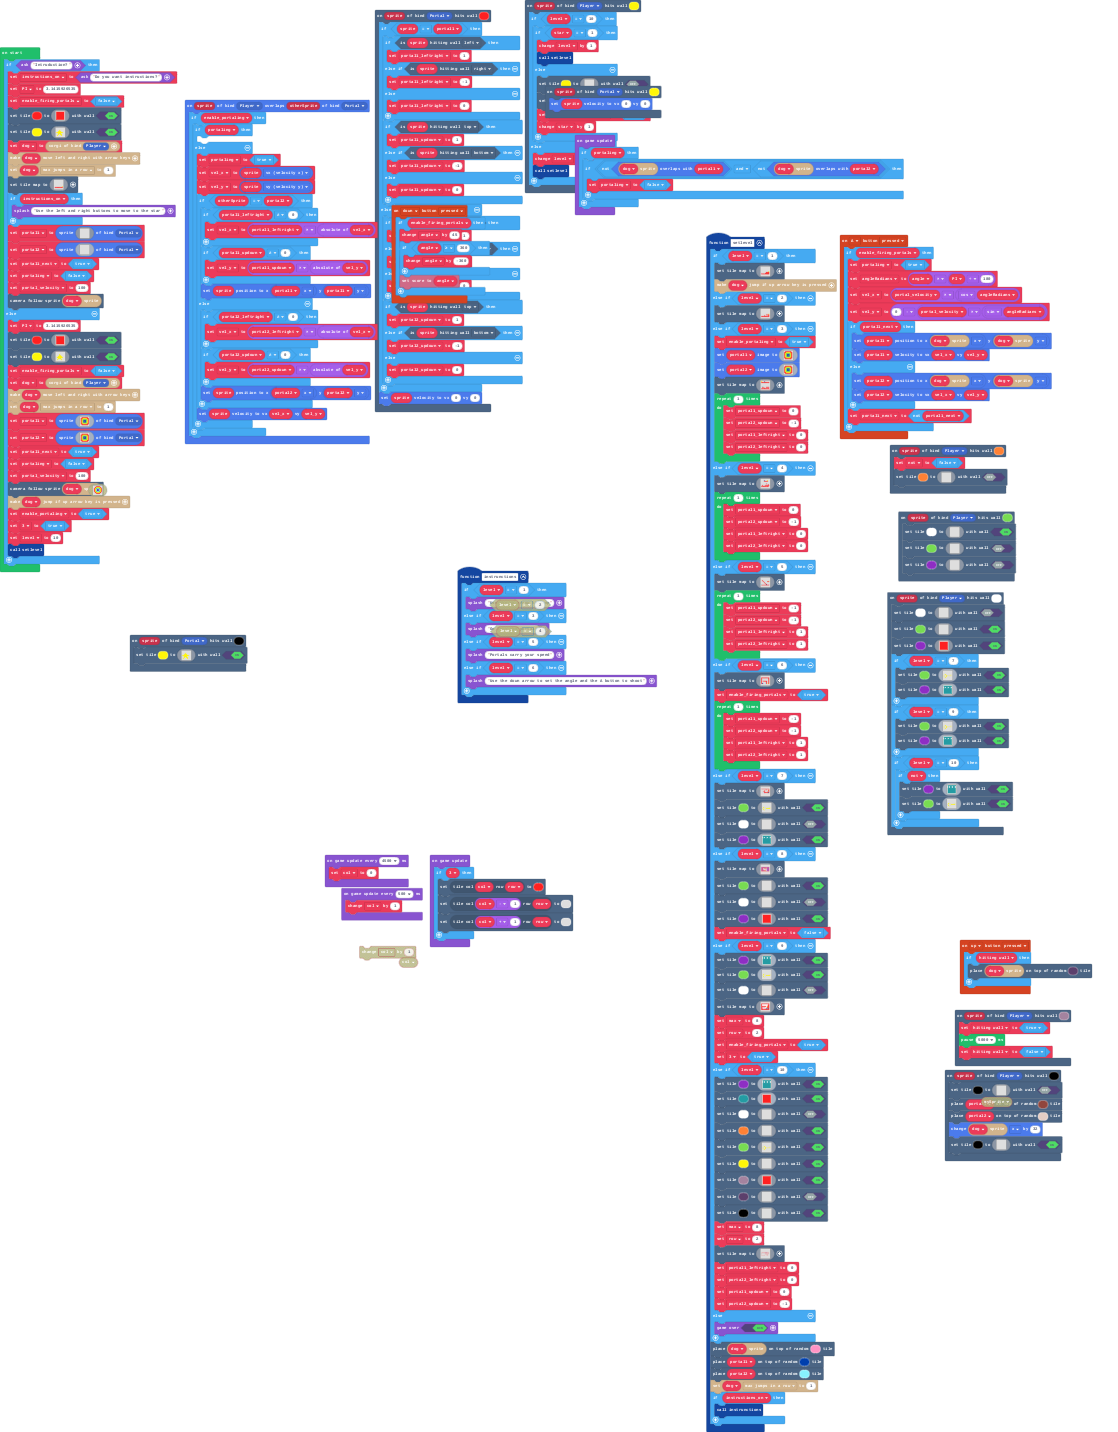
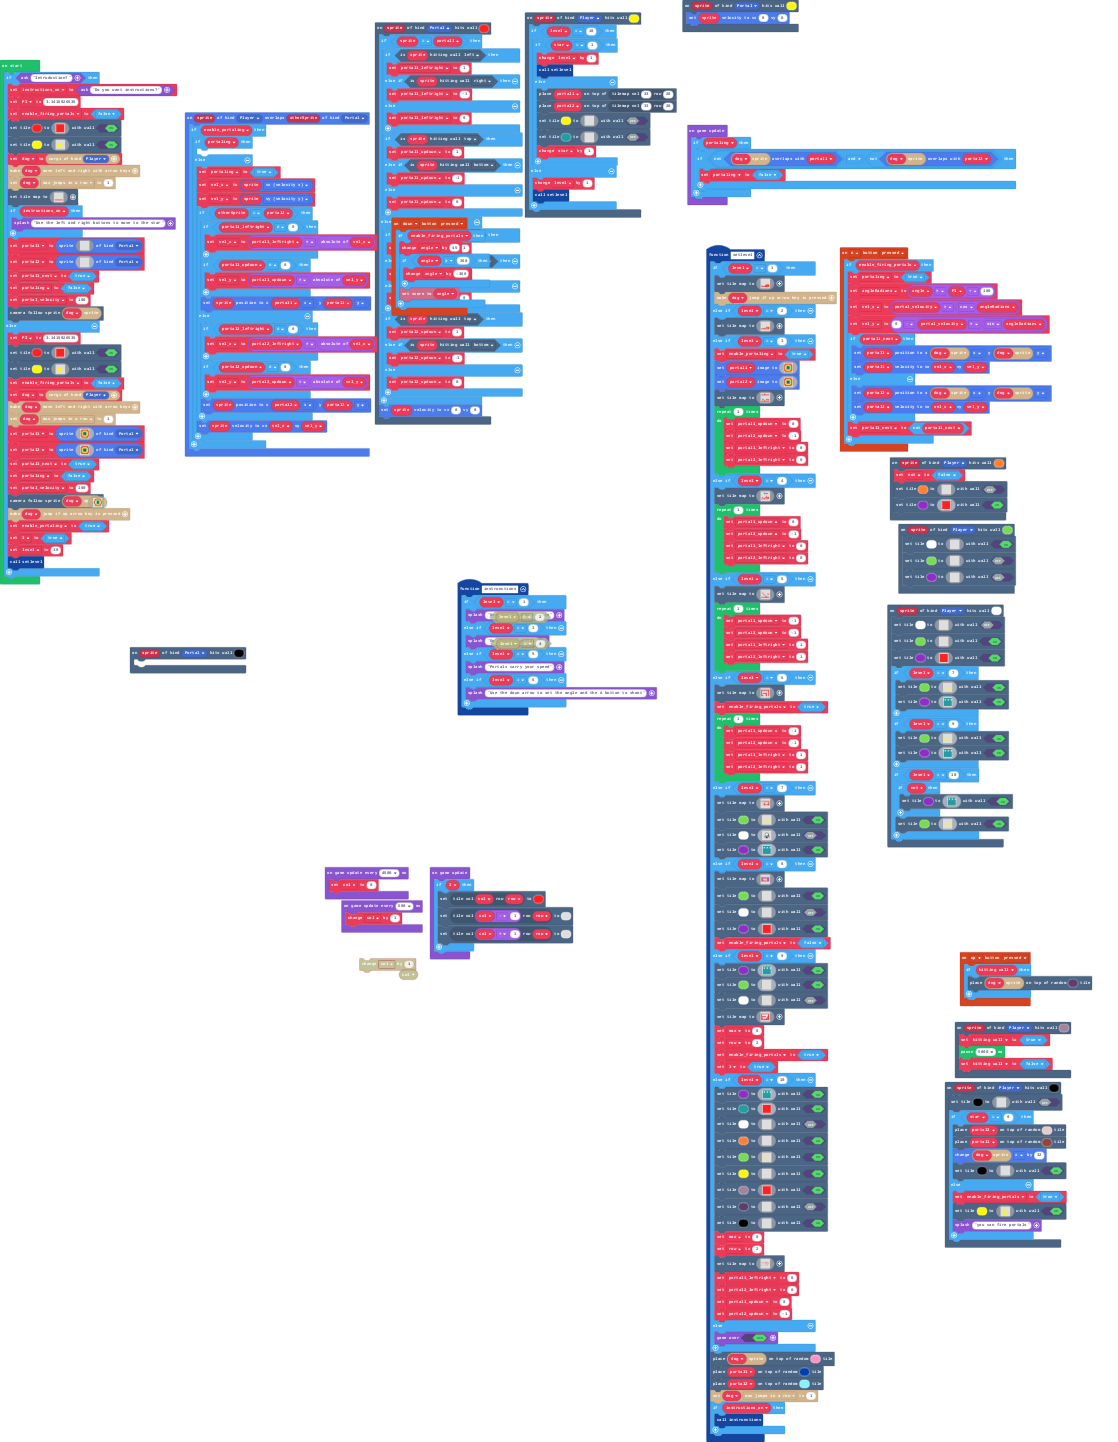
Update main.blocks, main.ts

diff --git a/main.ts b/main.ts
@@ -153,22 +153,30 @@ function setlevel () {
             . . . . . . . . . . . . . . . . 
             `, true)
         scene.setTile(1, img`
-            . . . . . . . . . . . . . . . . 
-            . . . . . . . . . . . . . . . . 
-            . . . . . . . . . . . . . . . . 
-            . . . . . . . . . . . . . . . . 
-            . . . . . . . . . . . . . . . . 
-            . . . . . . . . . . . . . . . . 
-            . . . . . . . . . . . . . . . . 
-            . . . . . . . . . . . . . . . . 
-            . . . . . . . . . . . . . . . . 
-            . . . . . . . . . . . . . . . . 
-            . . . . . . . . . . . . . . . . 
-            . . . . . . . . . . . . . . . . 
-            . . . . . . . . . . . . . . . . 
-            . . . . . . . . . . . . . . . . 
-            . . . . . . . . . . . . . . . . 
-            . . . . . . . . . . . . . . . . 
+            ........................
+            ........................
+            ........................
+            ........................
+            ..........ffff..........
+            ........ff1111ff........
+            .......fb111111bf.......
+            .......f11111111f.......
+            ......fd11111111df......
+            ......fd11111111df......
+            ......fddd1111dddf......
+            ......fbdbfddfbdbf......
+            ......fcdcf11fcdcf......
+            .......fb111111bf.......
+            ......fffcdb1bdffff.....
+            ....fc111cbfbfc111cf....
+            ....f1b1b1ffff1b1b1f....
+            ....fbfbffffffbfbfbf....
+            .........ffffff.........
+            ...........fff..........
+            ........................
+            ........................
+            ........................
+            ........................
             `, false)
         scene.setTile(10, img`
             6 6 6 6 6 6 6 6 6 6 6 6 6 6 6 6 
@@ -507,14 +515,14 @@ function setlevel () {
             3.......................2......2........2..111.....2........2.........
             2.......22...222.....2...2.....2.....2.22..1c1....22.222222..2........
             2.......22..2...2...2.2...2....2....22.22222822222.2.2.....2..2.......
-            2.......2222.....2222..2....2..2...222.22...12aaa2.2.2.....22..22.....
-            2........4..............22a22222..2222922.2222aaa2.2.2.....2.2...2....
-            2........4..............7241.....aaaaaaa2.7aaaa212.2.2........2..2....
+            244444442222.....2222..2....2..2...222.22...12aaa2.2.2.....22..22.....
+            2.......................22a22222..2222922.2222aaa2.2.2.....2.2...2....
+            2.......................7241.....aaaaaaa2.7aaaa212.2.2........2..2....
             2222222222222aa22222222222222222222aaab222222222.2.2.2..2.......22....
             26666666666666aaaaaaaaaaaaaaaaaaaaaa2aaaaaaaaaaa72.....22..2222222....
             2622222222222222222222222222222222662222222222222222a22222.......2....
-            2.................................2.........2....2.2.2....2222...2....
-            2.................................225.......2....2.2.2.....2...2.2....
+            2f1...............................2.........2....2.2.2....2222...2....
+            211...............................225.......2....2.2.2.....2...2.2....
             2.................................2.2.......2....2.2.2.....2..2..2....
             2.................................2..2.222222....2.2.2.......2...2....
             2.................................2..2.2....2....2..........2....2....
@@ -525,13 +533,13 @@ function setlevel () {
             2.................................2..2.2....2....2.2..2....2..2.......
             2.................................2..2.2....2....222a222..2..2........
             2.................................2..2.2....2....2.......2..2.........
-            2.................................2.........2....2......2..2..........
-            2.................................2.........2....2.....2...2..........
-            2.................................2.........2....2...2.....2..........
-            2.................................2.........2....222a222..22..........
-            2.................................2.........2....2.1.1...22...........
+            2.................................2..2.2....2....2......2..2..........
+            2.................................2..2.2....2....2.....2...2..........
+            2.................................2..2.2....2....2...2.....2..........
+            2.................................2..2.2....2....222a222..22..........
+            2.................................2..2.2....2....2.1.1...222..........
             2.................................2.........2....271.1..2..2..........
-            2................................f2.........2....2..e..2...2..........
+            2.................................2.........2....2..e..2...2..........
             22222222222222222222222222222222222...d.....2....22222222222..........
             `)
         portal1_leftright = 0
@@ -661,24 +669,7 @@ scene.onHitTile(SpriteKind.Player, 7, function (sprite) {
         `, false)
 })
 scene.onHitTile(SpriteKind.Portal, 15, function (sprite) {
-    scene.setTile(5, img`
-        . . . . . . . . . . . . . . . . 
-        . . . . . . . . . . . . . . . . 
-        . . . . . . . . . . . . . . . . 
-        . . . . . . 5 . . . . . . . . . 
-        . . . . . . 5 . . . . . . . . . 
-        . . . . . 5 5 5 5 . . . . . . . 
-        . . . . 5 5 5 5 5 5 . . . . . . 
-        . . . 5 5 5 5 5 5 5 5 . . . . . 
-        5 5 5 5 5 5 5 5 5 5 5 5 5 . . . 
-        . 5 5 5 5 5 5 5 5 5 5 5 5 . . . 
-        . . . 5 5 5 5 5 5 5 . . . . . . 
-        . . . . 5 5 5 5 5 5 . . . . . . 
-        . . . 5 5 5 . . 5 5 5 . . . . . 
-        . . 5 5 . . . . . 5 5 5 . . . . 
-        . 5 5 . . . . . . . 5 5 . . . . 
-        . . . . . . . . . . . . . . . . 
-        `, true)
+	
 })
 controller.down.onEvent(ControllerButtonEvent.Pressed, function () {
     if (enable_firing_portals) {
@@ -695,6 +686,8 @@ scene.onHitTile(SpriteKind.Player, 5, function (sprite) {
             level += 1
             setlevel()
         } else {
+            tiles.placeOnTile(portal1, tiles.getTileLocation(33, 28))
+            tiles.placeOnTile(portal2, tiles.getTileLocation(33, 28))
             scene.setTile(5, img`
                 . . . . . . . . . . . . . . . . 
                 . . . . . . . . . . . . . . . . 
@@ -731,7 +724,6 @@ scene.onHitTile(SpriteKind.Player, 5, function (sprite) {
                 . . . . . . . . . . . . . . . . 
                 . . . . . . . . . . . . . . . . 
                 `, false)
-            enable_firing_portals = true
             star += 1
         }
     } else {
@@ -759,6 +751,24 @@ scene.onHitTile(SpriteKind.Player, 4, function (sprite) {
         . . . . . . . . . . . . . . . . 
         . . . . . . . . . . . . . . . . 
         `, false)
+    scene.setTile(10, img`
+        2 2 2 2 2 2 2 2 2 2 2 2 2 2 2 2 
+        2 2 2 2 2 2 2 2 2 2 2 2 2 2 2 2 
+        2 2 2 2 2 2 2 2 2 2 2 2 2 2 2 2 
+        2 2 2 2 2 2 2 2 2 2 2 2 2 2 2 2 
+        2 2 2 2 2 2 2 2 2 2 2 2 2 2 2 2 
+        2 2 2 2 2 2 2 2 2 2 2 2 2 2 2 2 
+        2 2 2 2 2 2 2 2 2 2 2 2 2 2 2 2 
+        2 2 2 2 2 2 2 2 2 2 2 2 2 2 2 2 
+        2 2 2 2 2 2 2 2 2 2 2 2 2 2 2 2 
+        2 2 2 2 2 2 2 2 2 2 2 2 2 2 2 2 
+        2 2 2 2 2 2 2 2 2 2 2 2 2 2 2 2 
+        2 2 2 2 2 2 2 2 2 2 2 2 2 2 2 2 
+        2 2 2 2 2 2 2 2 2 2 2 2 2 2 2 2 
+        2 2 2 2 2 2 2 2 2 2 2 2 2 2 2 2 
+        2 2 2 2 2 2 2 2 2 2 2 2 2 2 2 2 
+        2 2 2 2 2 2 2 2 2 2 2 2 2 2 2 2 
+        `, true)
 })
 scene.onHitTile(SpriteKind.Portal, 5, function (sprite) {
     sprite.setVelocity(0, 0)
@@ -793,27 +803,50 @@ scene.onHitTile(SpriteKind.Player, 15, function (sprite) {
         . . . . . . . . . . . . . . . . 
         . . . . . . . . . . . . . . . . 
         `, false)
-    scene.placeOnRandomTile(portal1, 14)
-    scene.placeOnRandomTile(portal2, 13)
-    dog.sprite.x += 32
-    scene.setTile(15, img`
-        . . . . . . . . . . . . . . . . 
-        . . . . . . . . . . . . . . . . 
-        . . . . . . . . . . . . . . . . 
-        . . . . . . . . . . . . . . . . 
-        . . . . . . . . . . . . . . . . 
-        . . . . . . . . . . . . . . . . 
-        . . . . . . . . . . . . . . . . 
-        . . . . . . . . . . . . . . . . 
-        . . . . . . . . . . . . . . . . 
-        . . . . . . . . . . . . . . . . 
-        . . . . . . . . . . . . . . . . 
-        . . . . . . . . . . . . . . . . 
-        . . . . . . . . . . . . . . . . 
-        . . . . . . . . . . . . . . . . 
-        . . . . . . . . . . . . . . . . 
-        . . . . . . . . . . . . . . . . 
-        `, true)
+    if (star == 0) {
+        scene.placeOnRandomTile(portal2, 13)
+        scene.placeOnRandomTile(portal1, 14)
+        dog.sprite.x += 32
+        scene.setTile(15, img`
+            . . . . . . . . . . . . . . . . 
+            . . . . . . . . . . . . . . . . 
+            . . . . . . . . . . . . . . . . 
+            . . . . . . . . . . . . . . . . 
+            . . . . . . . . . . . . . . . . 
+            . . . . . . . . . . . . . . . . 
+            . . . . . . . . . . . . . . . . 
+            . . . . . . . . . . . . . . . . 
+            . . . . . . . . . . . . . . . . 
+            . . . . . . . . . . . . . . . . 
+            . . . . . . . . . . . . . . . . 
+            . . . . . . . . . . . . . . . . 
+            . . . . . . . . . . . . . . . . 
+            . . . . . . . . . . . . . . . . 
+            . . . . . . . . . . . . . . . . 
+            . . . . . . . . . . . . . . . . 
+            `, true)
+    } else {
+        enable_firing_portals = true
+        scene.setTile(5, img`
+            . . . . . . . . . . . . . . . . 
+            . . . . . . . . . . . . . . . . 
+            . . . . . . . . . . . . . . . . 
+            . . . . . . 5 . . . . . . . . . 
+            . . . . . . 5 . . . . . . . . . 
+            . . . . . 5 5 5 5 . . . . . . . 
+            . . . . 5 5 5 5 5 5 . . . . . . 
+            . . . 5 5 5 5 5 5 5 5 . . . . . 
+            5 5 5 5 5 5 5 5 5 5 5 5 5 . . . 
+            . 5 5 5 5 5 5 5 5 5 5 5 5 . . . 
+            . . . 5 5 5 5 5 5 5 . . . . . . 
+            . . . . 5 5 5 5 5 5 . . . . . . 
+            . . . 5 5 5 . . 5 5 5 . . . . . 
+            . . 5 5 . . . . . 5 5 5 . . . . 
+            . 5 5 . . . . . . . 5 5 . . . . 
+            . . . . . . . . . . . . . . . . 
+            `, true)
+        game.splash("you can fire portals")
+    }
 })
 scene.onHitTile(SpriteKind.Player, 1, function (sprite) {
     scene.setTile(1, img`
@@ -966,25 +999,25 @@ scene.onHitTile(SpriteKind.Player, 1, function (sprite) {
                 6 6 6 6 6 6 6 6 6 6 6 6 6 6 6 6 
                 6 6 6 6 6 6 6 6 6 6 6 6 6 6 6 6 
                 `, true)
-            scene.setTile(7, img`
-                . . . . . . . . . . . . . . . . 
-                . . . . . . . . . . . . . . . . 
-                . . . . . . . . . . . . . . . . 
-                . . . . . . . . . . . . . . . . 
-                . . . . . . . . . . . . . . . . 
-                . . . . . . . . . . . . . . . . 
-                . . 5 5 . . . . . . . . . . . . 
-                . 5 . . 5 . . . . . . . 5 . 5 . 
-                5 . . . . 5 . . . . . . 5 . 5 . 
-                5 . . . . . 5 5 5 5 5 5 5 5 5 . 
-                5 . . . . 5 . . . . . . . . . . 
-                . 5 . . 5 . . . . . . . . . . . 
-                . . 5 5 . . . . . . . . . . . . 
-                . . . . . . . . . . . . . . . . 
-                . . . . . . . . . . . . . . . . 
-                . . . . . . . . . . . . . . . . 
-                `, true)
         }
+        scene.setTile(7, img`
+            . . . . . . . . . . . . . . . . 
+            . . . . . . . . . . . . . . . . 
+            . . . . . . . . . . . . . . . . 
+            . . . . . . . . . . . . . . . . 
+            . . . . . . . . . . . . . . . . 
+            . . . . . . . . . . . . . . . . 
+            . . 5 5 . . . . . . . . . . . . 
+            . 5 . . 5 . . . . . . . 5 . 5 . 
+            5 . . . . 5 . . . . . . 5 . 5 . 
+            5 . . . . . 5 5 5 5 5 5 5 5 5 . 
+            5 . . . . 5 . . . . . . . . . . 
+            . 5 . . 5 . . . . . . . . . . . 
+            . . 5 5 . . . . . . . . . . . . 
+            . . . . . . . . . . . . . . . . 
+            . . . . . . . . . . . . . . . . 
+            . . . . . . . . . . . . . . . . 
+            `, true)
     }
 })
 scene.onHitTile(SpriteKind.Portal, 2, function (sprite) {
